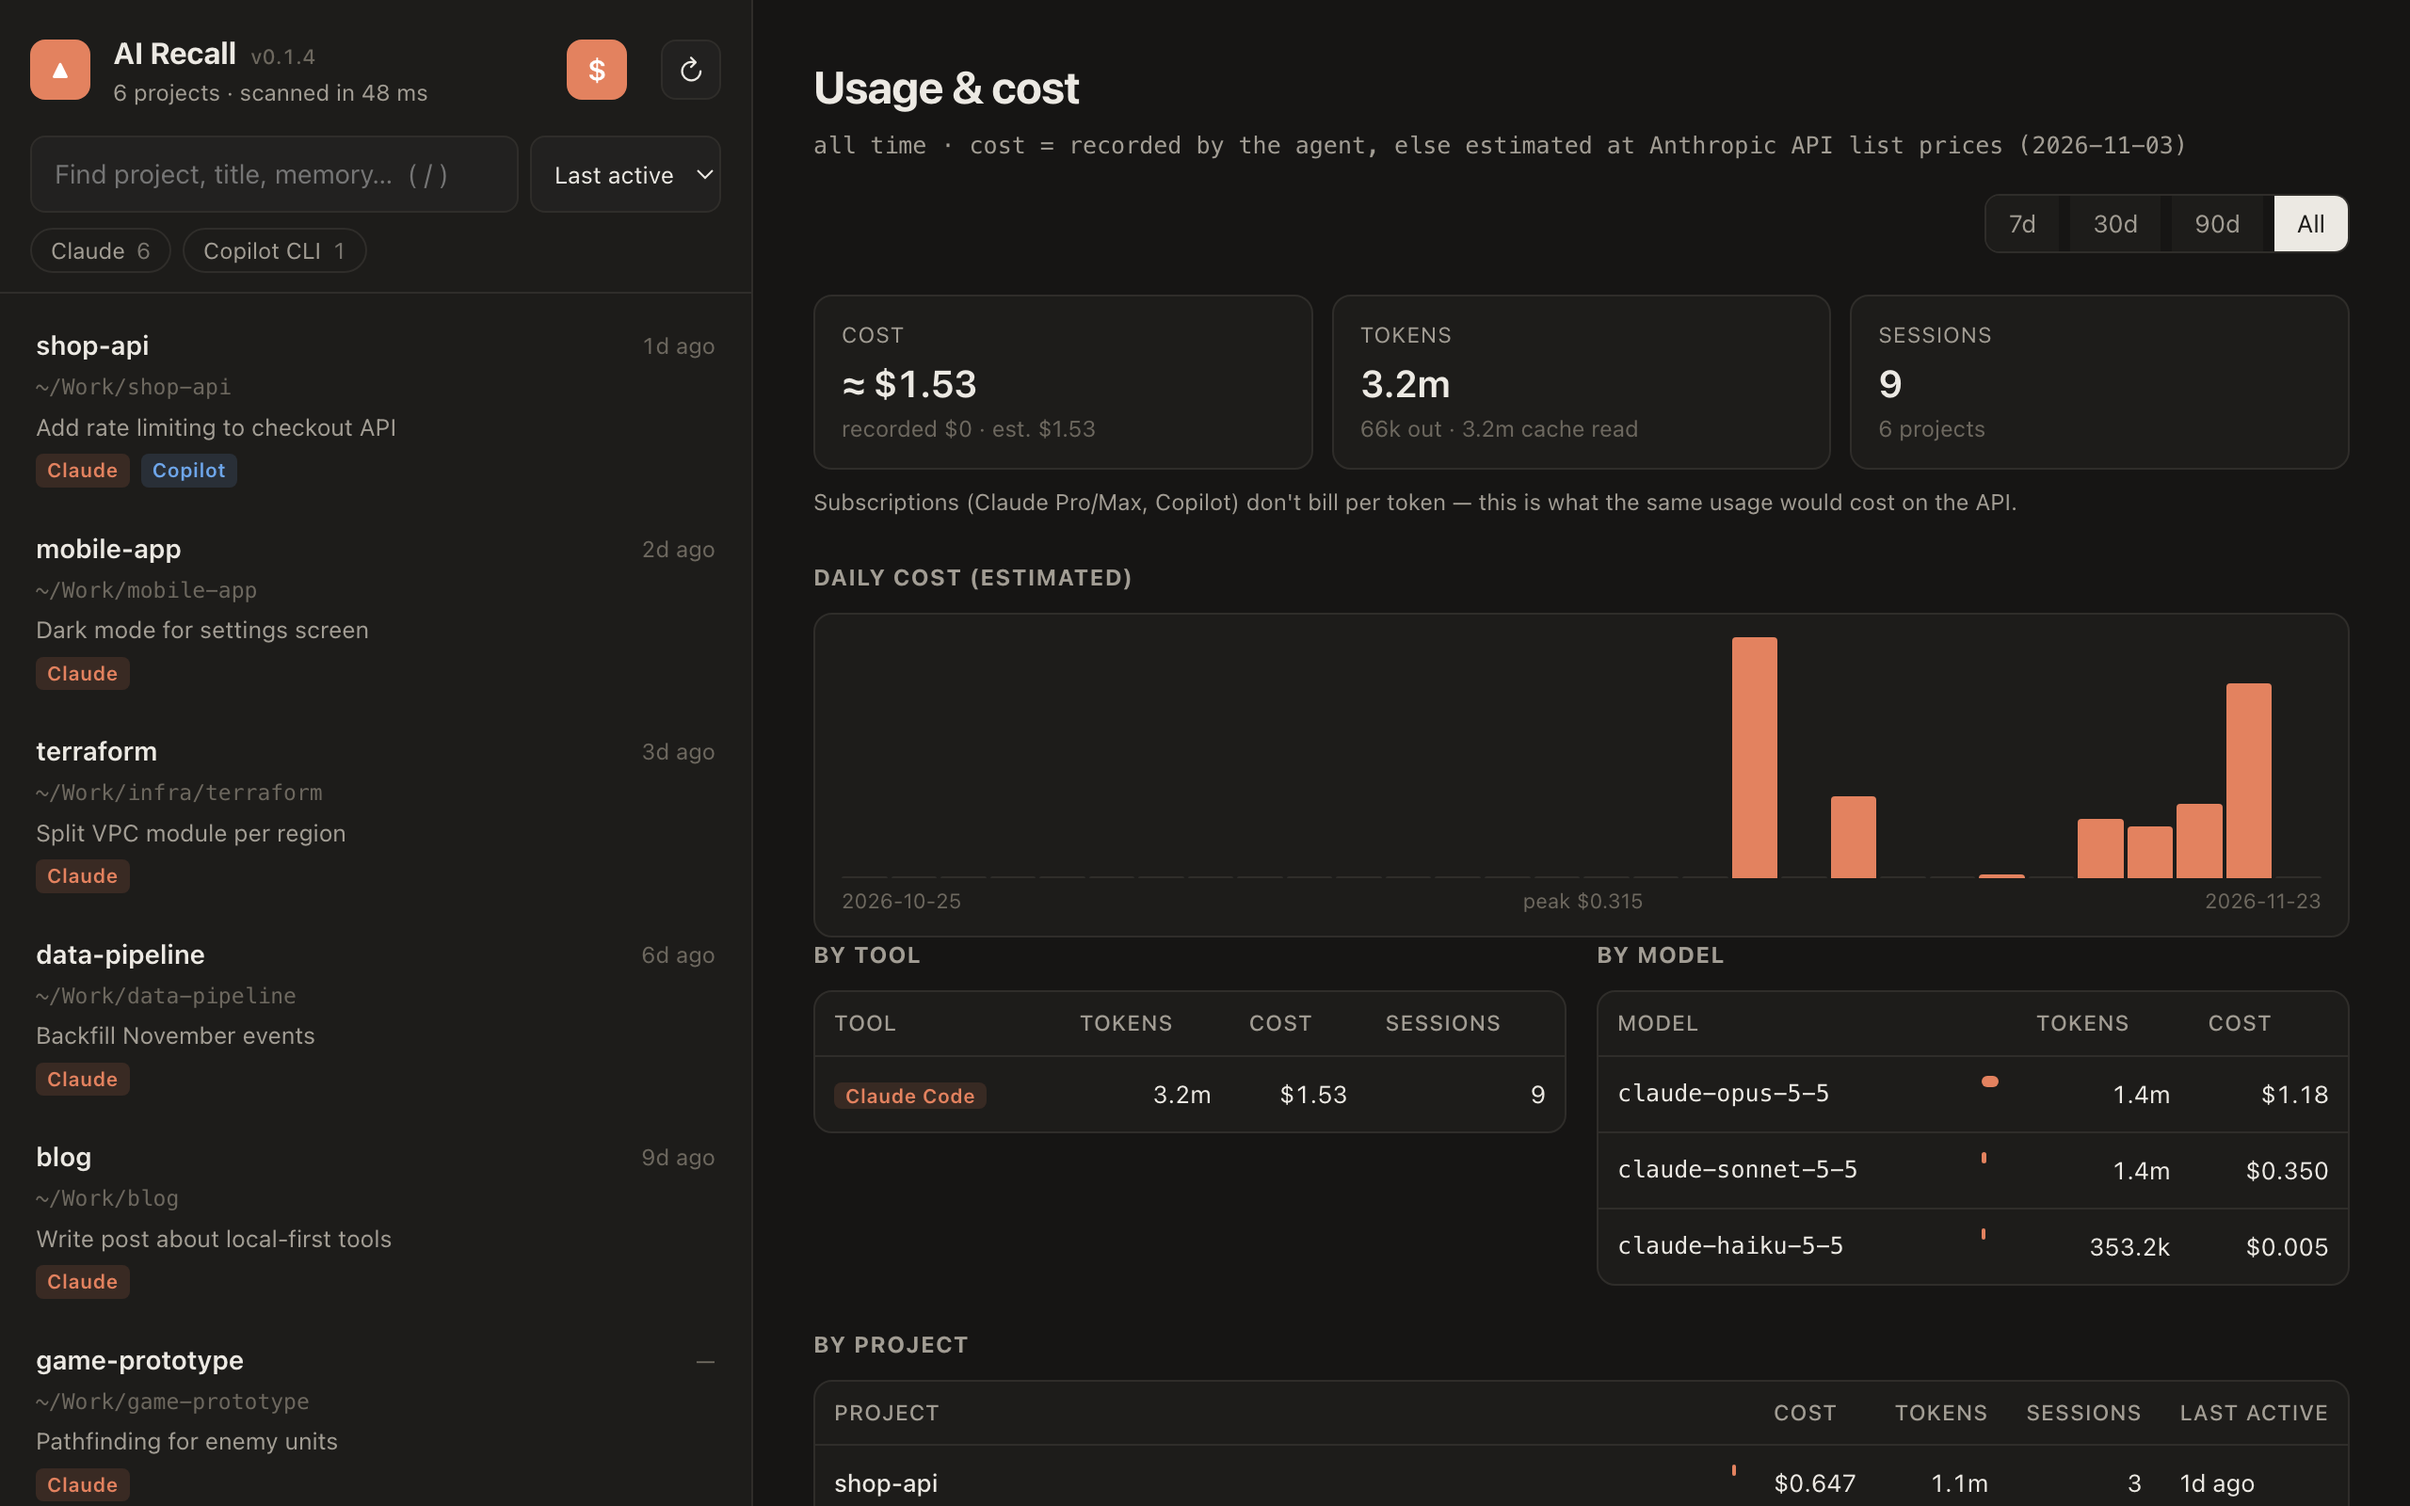
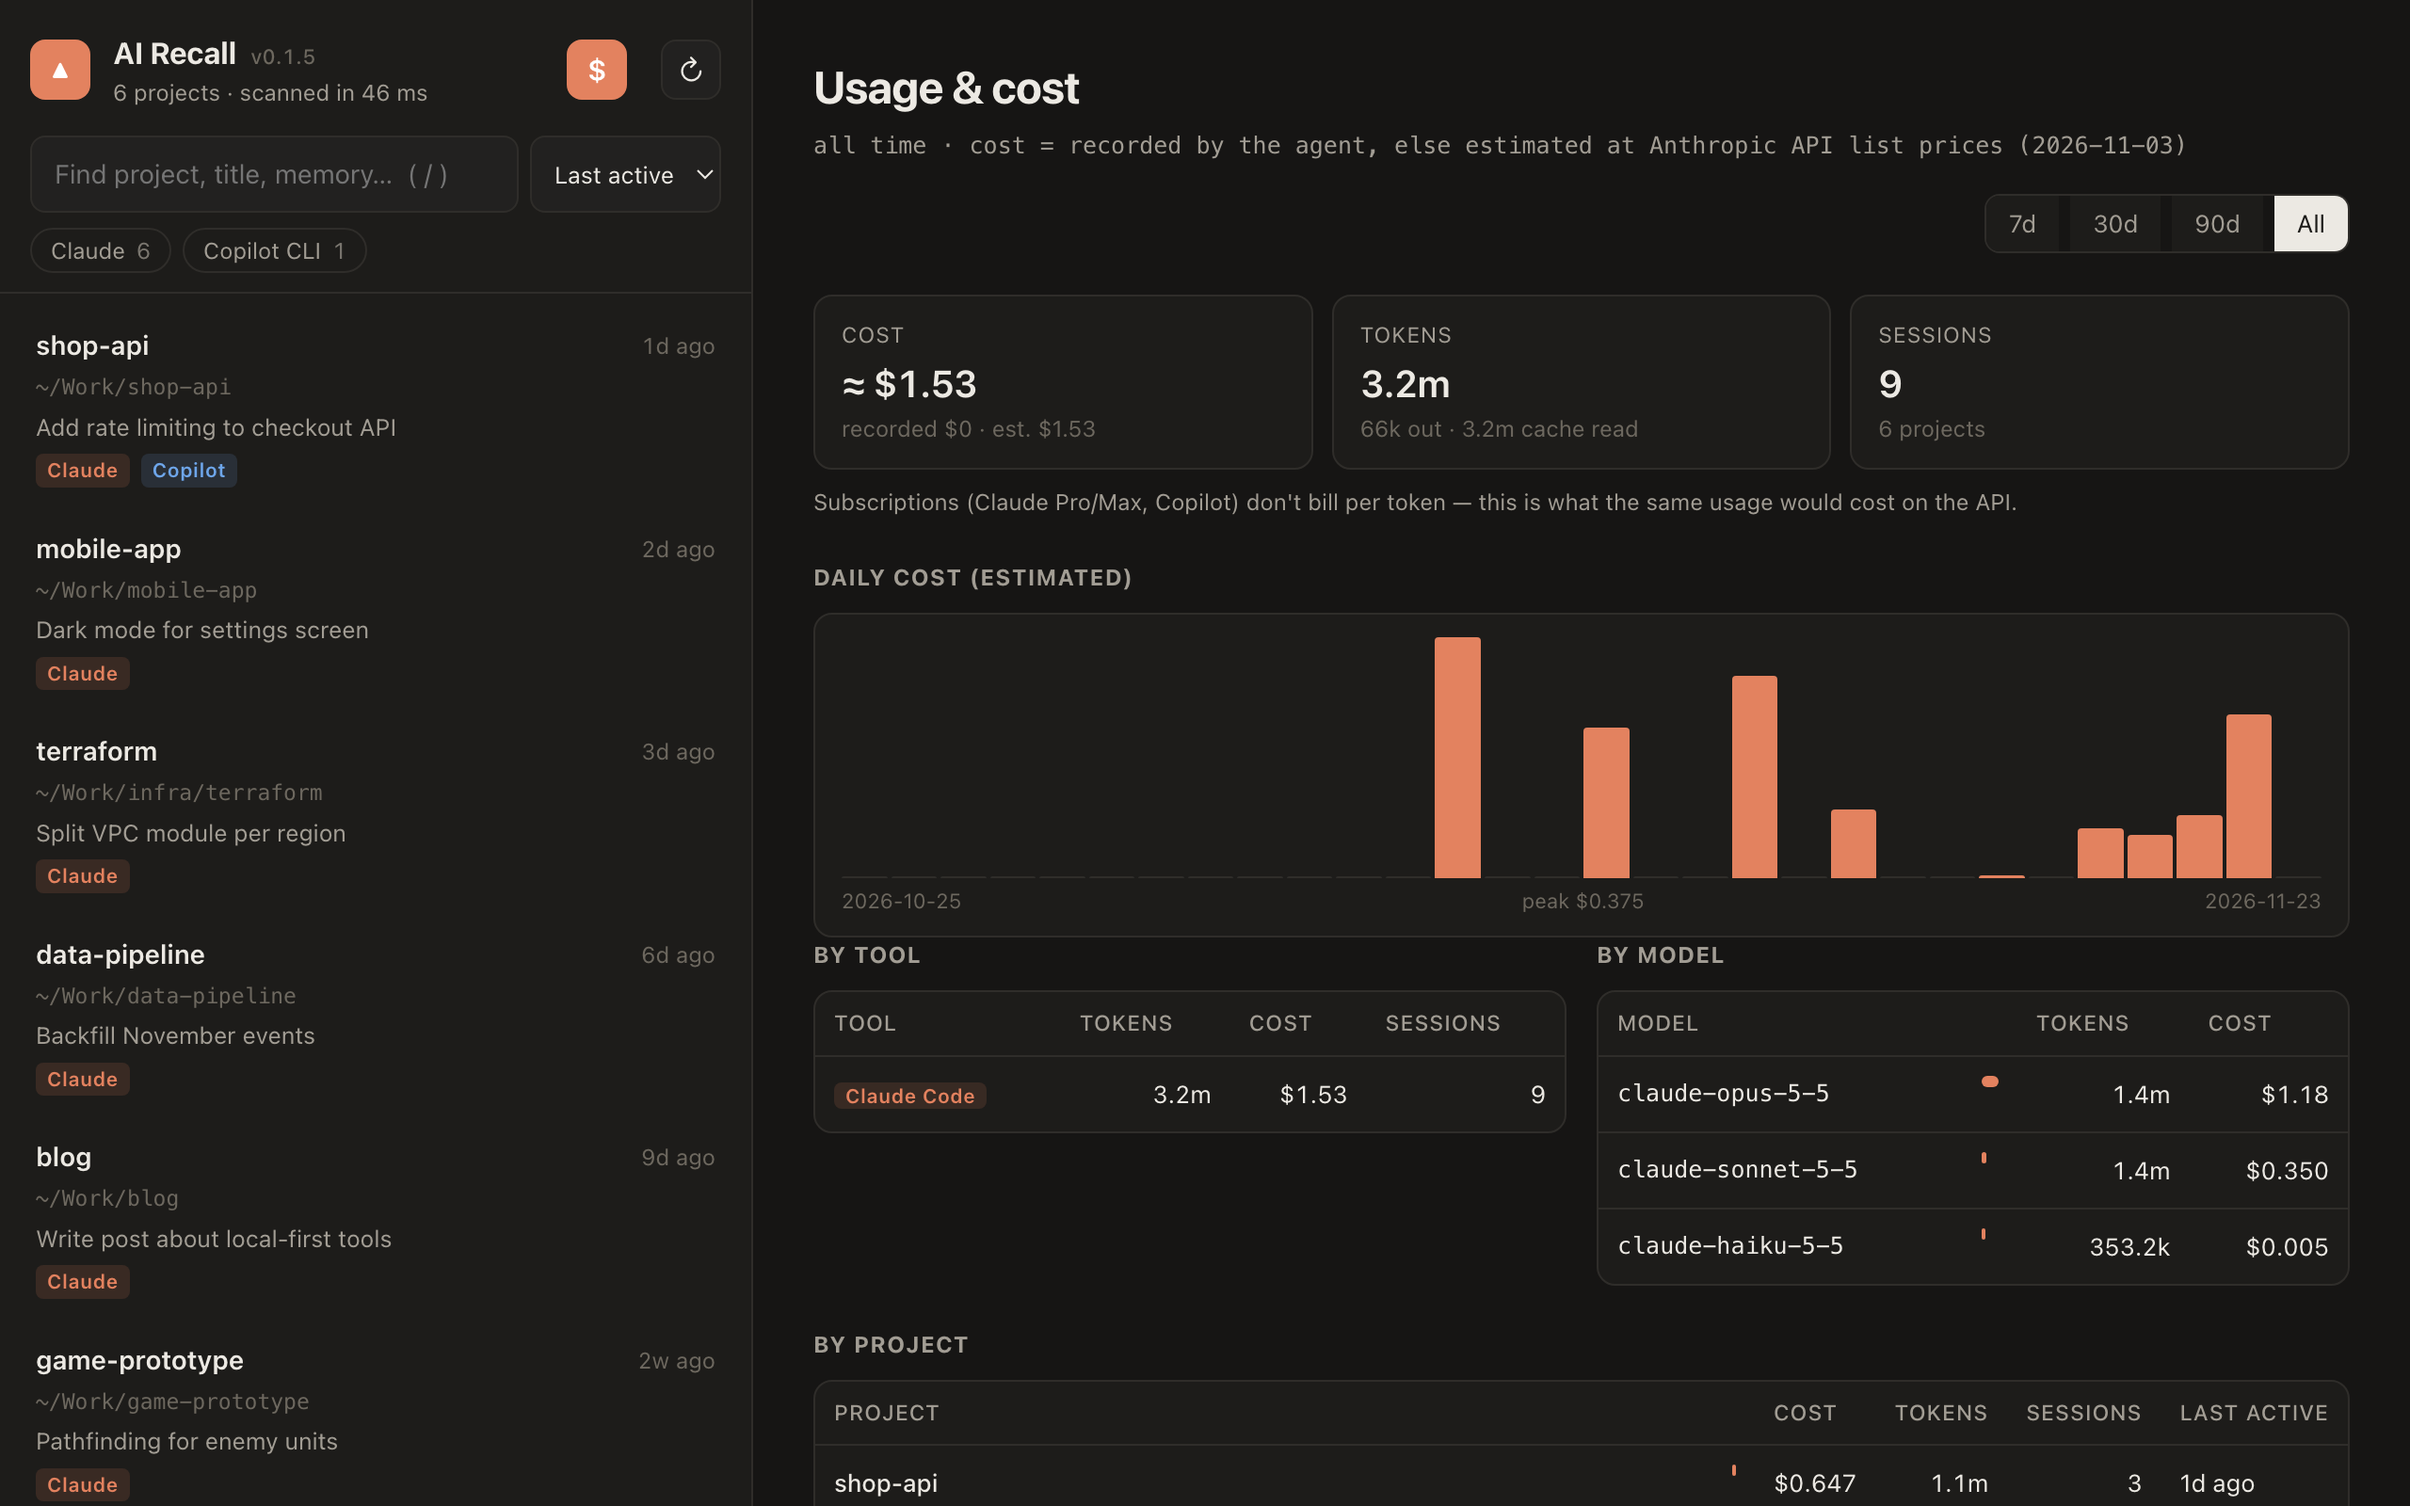
Fix '1 messages' plural, refresh screenshots (0.1.5)

diff --git a/ui/app.js b/ui/app.js
@@ -276,7 +276,7 @@ function overviewPane(p) {
       <h3 class="section-title">Where you left off</h3>
       <div class="card" style="padding:14px 16px">
         <div class="s-title">${esc(lastSession.title ?? lastSession.firstPrompt ?? lastSession.id)}</div>
-        <div class="s-sub">${TOOL_LABEL[lastSession.tool]} · ${rel(lastSession.end ?? lastSession.start)}${lastSession.branch ? ' · ⎇ ' + esc(lastSession.branch) : ''}${lastSession.userMessages ? ` · ${lastSession.userMessages} messages` : ''}</div>
+        <div class="s-sub">${TOOL_LABEL[lastSession.tool]} · ${rel(lastSession.end ?? lastSession.start)}${lastSession.branch ? ' · ⎇ ' + esc(lastSession.branch) : ''}${lastSession.userMessages ? ` · ${lastSession.userMessages} message${lastSession.userMessages === 1 ? '' : 's'}` : ''}</div>
         ${recent[0] ? `<div class="s-sub" style="margin-top:8px">Last prompt <span class="faint">(${rel(recent[0].ts)})</span>: <span style="color:var(--text)">${esc(trunc(recent[0].text, 240))}</span></div>` : ''}
       </div>` : ''}
 
